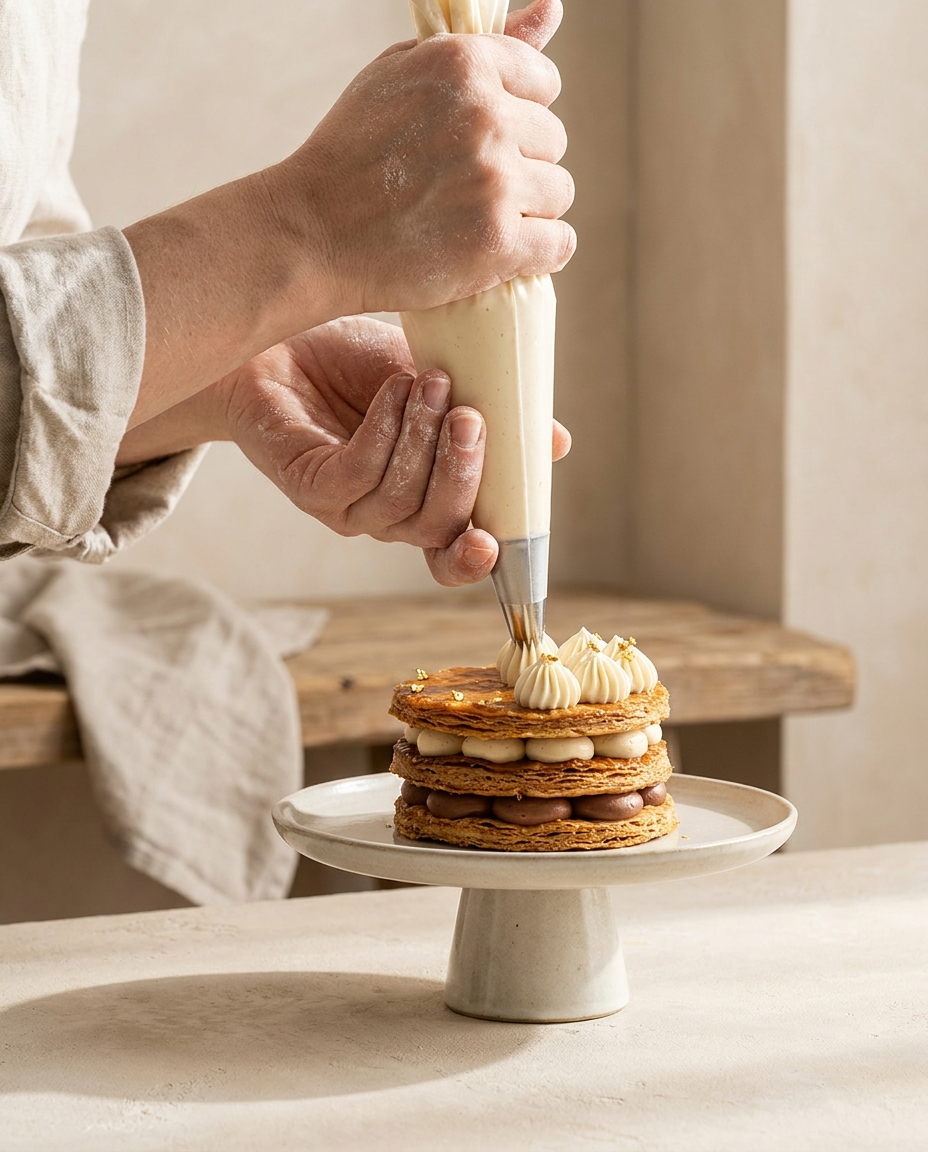
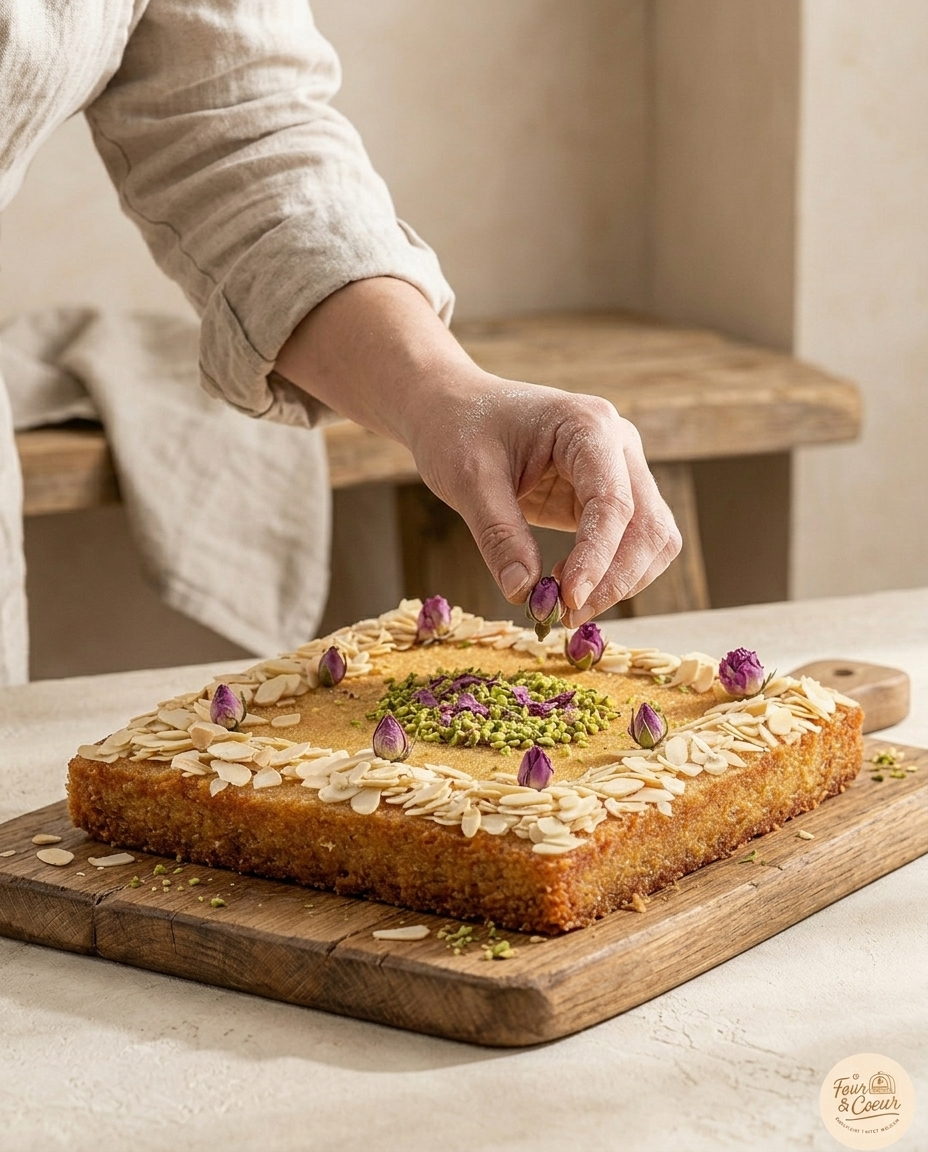
Refactor code structure for improved readability and maintainability

diff --git a/src/components/sections/art-of-homemade.tsx b/src/components/sections/art-of-homemade.tsx
@@ -5,7 +5,7 @@ const steps = [
   {
     n: "01",
     title: "Des ingrédients d'exception",
-    text: "Beurre AOP, Sucre maîtrisé, chocolats de grands crus, fruits de saison sélectionnés chaque matin. La qualité commence à la source.",
+    text: "Beurre AOP, sucre maîtrisé, chocolats de grands crus, fruits de saison sélectionnés chaque matin. La qualité commence à la source.",
   },
   {
     n: "02",